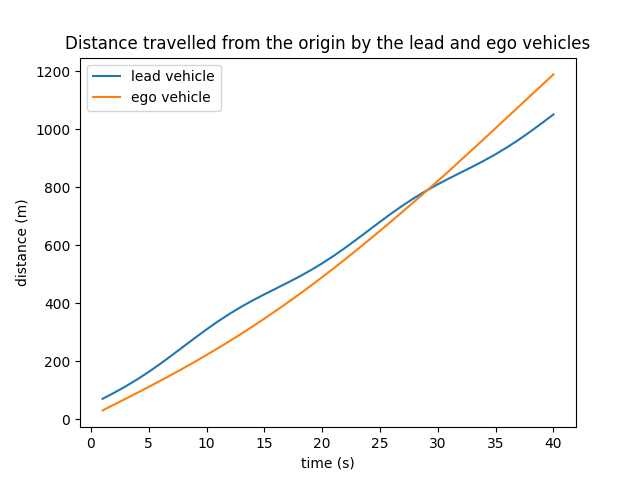
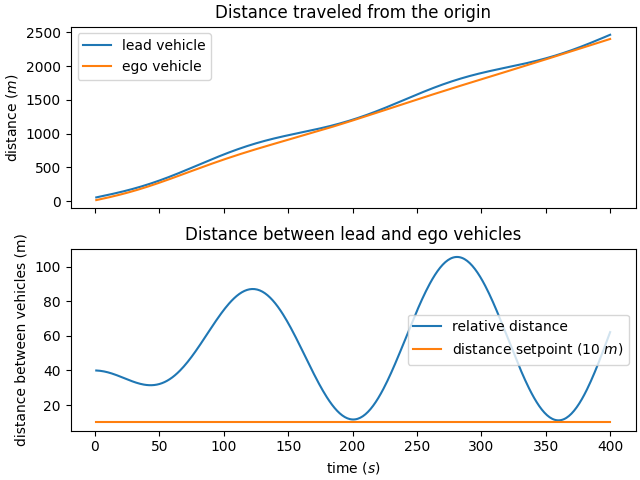
added subplots, tuned PID values, cleaned up code, and explained more in the README

diff --git a/tests/main.py b/tests/main.py
@@ -26,31 +26,23 @@ if __name__ == "__main__":
     dist2 = []
     dist = []
 
-
     for line in sys.stdin:
         # stdin: error, lead speed,e go speed, lead acceleration, ego acceleration, distance
 
         # split the input by ,
         stdin_arr = line.split(",")
-        # idx 0 is error
+
         error.append(float(stdin_arr[0]))
 
-        #idx 1 is error sum
         error_sum.append(float(stdin_arr[1]))
 
-        # idx 1 is lead speed
         lead_v.append(float(stdin_arr[2]))
 
-        #idx 2 is ego speed
         ego_v.append(float(stdin_arr[3]))
 
-        # idx 3 is lead acceleration
         lead_a.append(float(stdin_arr[4]))
 
-        # idx 4 is ego acceleration
         ego_a.append(float(stdin_arr[5]))
-
-        # idx 5 is distance between vehicles
 
         dist1.append(float(stdin_arr[6]))
 
@@ -59,64 +51,53 @@ if __name__ == "__main__":
         dist.append(float(stdin_arr[8].strip("\n")))
 
     # error
-    
-    plt.plot(T, error)
-    plt.xlabel("time (s)")
-    plt.ylabel("error")
-    plt.title("PID error over time")
+    fig, ax = plt.subplots(2, 1, sharex=True, constrained_layout=True)
+    ax[0].plot(T, error)
+    ax[0].set_title("PID error")
+    ax[0].set_ylabel("error")
+
+    ax[1].plot(T, error_sum)
+    ax[1].set_title("PID error accumulation")
+    ax[1].set_xlabel("time ($s$)")
+    ax[1].set_ylabel("error accumulation")
+
     plt.savefig("plots/error.png")
     plt.clf()
 
-    
-    # error sum
-    plt.plot(T, error_sum)
-    plt.xlabel("time (s)")
-    plt.ylabel("error accumulation")
-    plt.title("Total PID error over time")
-    plt.savefig("plots/total_error.png")
-    plt.clf()
+    # velocity and acceleration
+    fig, ax = plt.subplots(2, 1, sharex=True, constrained_layout=True)
+    ax[0].plot(T, lead_v)
+    ax[0].plot(T, ego_v)
+    ax[0].plot(T, SETPOINT) 
+    ax[0].set_ylabel("vehicle velocity ($m/s$)")
+    ax[0].set_title("Velocity responses")
+    ax[0].legend(["lead vehicle", "ego vehicle", "cruise setpoint (30 $m/s$)"])
 
+    ax[1].plot(T, lead_a)
+    ax[1].plot(T, ego_a)
+    ax[1].set_xlabel("time ($s$)")
+    ax[1].set_ylabel("vehicle acceleration ($m/s^2$)")
+    ax[1].set_title("Acceleration responses")
+    ax[1].legend(["lead vehicle", "ego vehicle"])
 
-    # velocity
-    plt.plot(T, lead_v)
-    plt.plot(T, ego_v)
-    plt.plot(T, SETPOINT) 
-    plt.xlabel("time (s)")
-    plt.ylabel("vehicle velocity (m/s)")
-    plt.title("Lead and ego vehicle velocity responses")
-    plt.legend(["lead vehicle", "ego vehicle", "cruise setpoint"])
-    plt.savefig("plots/velocity.png")
-    plt.clf()
-
-    
-    # acceleration
-    plt.plot(T, lead_a)
-    plt.plot(T, ego_a)
-    plt.xlabel("time (s)")
-    plt.ylabel("vehicle acceleration (m/s^2)")
-    plt.title("Lead and ego vehicle acceleration responses")
-    plt.legend(["lead vehicle", "ego vehicle"])
-    plt.savefig("plots/acceleration.png")
+    plt.savefig("plots/vel-acc-responses.png")
     plt.clf()
 
 
     # distance
-    plt.plot(T, dist1)
-    plt.plot(T, dist2)
-    plt.xlabel("time (s)")
-    plt.ylabel("distance (m)")
-    plt.title("Distance travelled from the origin by the lead and ego vehicles")
-    plt.legend(["lead vehicle", "ego vehicle"])
-    plt.savefig("plots/distance.png")
-    plt.clf()
+    fig, ax = plt.subplots(2, 1, sharex=True, constrained_layout=True)
+    ax[0].plot(T, dist1)
+    ax[0].plot(T, dist2)
+    ax[0].set_ylabel("distance ($m$)")
+    ax[0].set_title("Distance traveled from the origin")
+    ax[0].legend(["lead vehicle", "ego vehicle"])
 
-    # abs distance
     DISTANCE=[10]*DURATION
-    plt.plot(T, dist)
-    plt.plot(T, DISTANCE)
-    plt.xlabel("time (s)")
-    plt.ylabel("distance between vehicles (m)")
-    plt.title("Distance between lead and ego vehicles during the simulation")
-    plt.legend(["absolute distance","distance setpoint"])
-    plt.savefig("plots/absdistance.png")
+    ax[1].plot(T, dist)
+    ax[1].plot(T, DISTANCE)
+    ax[1].set_xlabel("time ($s$)")
+    ax[1].set_ylabel("distance between vehicles (m)")
+    ax[1].set_title("Distance between lead and ego vehicles")
+    ax[1].legend(["relative distance","distance setpoint (10 $m$)"])
+    plt.savefig("plots/distance.png")
 

diff --git a/src/acc.cc b/src/acc.cc
@@ -14,7 +14,6 @@ ACC::ACC(double set_velocity, double set_distance) {
 }
 
 void ACC::SetPID(double P, double I, double D) {
-    // set PID controller values
     controller.SetPID(P,I,D);
 }
 
@@ -22,23 +21,21 @@ double ACC::ApplyControl(double lead_distance, double ego_distance, double actua
     // computes control values and decides whether to apply gas or brakes
     this->actual_velocity=actual_velocity;
 
-    if(abs(lead_distance-ego_distance) >= set_distance) {
+    if(lead_distance-ego_distance >= set_distance) {
         // minimum distance is not violated
         setpoint = set_velocity;
 
-        // calculate control value
         control = controller.Compute(actual_velocity, setpoint); 
-
-//        std::cout << "!!not violated setpoint: " << setpoint << ", control: " << control << std::endl;
 
     } else {
         // minimum distance is violated
-        // apply brakes proportional to how much dist was violated
-//        control = - abs(set_distance - (lead_distance-ego_distance));
-
-        control = controller.Compute(lead_distance-ego_distance, set_distance);
-
-//        std::cout << "!!violated control: " << control << std::endl;
+        if(lead_distance-ego_distance <= 4){
+            // collided with the lead car
+            control = -controller.Compute(0, set_distance);
+        } else {
+            // no collision
+            control = -controller.Compute(lead_distance-ego_distance, set_distance);
+        }
     } 
     return control;
 }
@@ -50,6 +47,5 @@ double ACC::GetError() {
 
 double ACC::GetErrorSum() {
     error_sum+=controller.GetError();
-//    error_sum = controller.GetErrorSum();
     return error_sum;
 }

diff --git a/src/vehicle.cc b/src/vehicle.cc
@@ -5,7 +5,6 @@
 
 // construct and set vehicle name
 Vehicle::Vehicle(const std::string& name, const double& position0, const double& velocity0) : name(name), position(position0), velocity(velocity0) {
-//    std::cout << "[veh]: " << name << ", init vel: " << velocity << ", init pos: " << position << std::endl;
 } 
 
 // get vehicle position in global reference frame
@@ -25,31 +24,23 @@ void Vehicle::UpdateState(const double& control) {
     if(!CheckBounds(acceleration)) {
         if(acceleration>=0) {
             acceleration = maximum;
-//            std::cout << "bounds violated - max at " << acceleration << std::endl;
         } else {
             acceleration = minimum;
-//            std::cout << "bounds violated - min at " << acceleration << std::endl;
         }
     }
-
     // v = v + a * dt
-    velocity += acceleration * 1;
+    velocity += acceleration * 0.2;
 
     // p = p + v * dt
-    position += velocity * 1;
-
-//    std::cout << "[veh]: " << name << ", acc: " << acceleration << ", vel: " << velocity << ", pos: " << position << std::endl;
+    position += velocity * 0.2;
 }
 
 // manually sets acceleration
 void Vehicle::UpdateStateManual(double acceleration) {
     this->acceleration=acceleration;
 
-    velocity += acceleration * 1;
-    position += velocity * 1;
-
-//    std::cout << "[veh]: " << name << ", acc: " << acceleration << ", vel: " << velocity << ", pos: " << position << std::endl;
-
+    velocity += acceleration * 0.2;
+    position += velocity * 0.2;
 }
 
 // get vehicle velocity 

diff --git a/src/main.cc b/src/main.cc
@@ -27,7 +27,7 @@ int main(int argc, char* argv[]) {
     ACC acc(SETVELOCITY, SETDISTANCE);
 
     // set PID params through ACC
-    acc.SetPID(15,10,15);
+    acc.SetPID(80,10,10);
 
     // acceleration bounds
     ego.SetBounds(-3, 3);
@@ -39,6 +39,8 @@ int main(int argc, char* argv[]) {
          * ego: set acc through ACC, compute vel, compute dist
          */
 
+        double j = i/5.0;
+
         // update the lead vehicle acceleration through waveform
         lead.UpdateStateManual(AMPLITUDE*sin(M_PI*CYCLES*i/SIMDURATION));
 
@@ -47,8 +49,7 @@ int main(int argc, char* argv[]) {
         ego.UpdateState(acc.ApplyControl(lead.GetPosition(), ego.GetPosition(), ego.GetVelocity()));
 ;
 
-
-        std::cout << acc.GetError() << "," << acc.GetErrorSum() << "," << lead.GetVelocity() << "," << ego.GetVelocity() << "," << lead.GetAcceleration() << "," << ego.GetAcceleration() << "," << lead.GetPosition() << "," << ego.GetPosition() << "," << abs(lead.GetPosition() - ego.GetPosition()) << std::endl;
+        std::cout << acc.GetError() << "," << acc.GetErrorSum() << "," << lead.GetVelocity() << "," << ego.GetVelocity() << "," << lead.GetAcceleration() << "," << ego.GetAcceleration() << "," << lead.GetPosition() << "," << ego.GetPosition() << "," << lead.GetPosition() - ego.GetPosition() << std::endl;
 
     }
 }

diff --git a/README.md b/README.md
@@ -2,7 +2,20 @@
  
 Adaptive cruise control (ACC) is a control system that modifies the speed of the ego vehicle in response to conditions on the road. The ACC operates in two modes: speed control and spacing control. The control goal varies depending on which mode is set. The inter-vehicle distance is maintained with a constant value. The goal of the system is to maintain the desired distance without causing a collision, keeping the maximum acceleration and minimum deceleration within specified limits (to guarantee safety etc).
 
-I have a more thorough explanation of the model, controller, and the code as a whole on my blog post here. This README explains the file structure and how to run it.
+I have a more thorough explanation of the model, controller, and the code as a whole on my blog post here. But here are the results with P=80, I=10, D=10.
+
+
+<p align="center"><img src="https://raw.githubusercontent.com/onlycase/adaptive-cruise-control/master/plots/vel-acc-responses.png"/></p>
+
+The lead vehicle acceleration is driven by a sinusoid, which in turn drives the velocity. The ego vehicle oscillates somewhat but converges on the cruise setpoint although it is quite slow.
+
+<p align="center"><img src="https://raw.githubusercontent.com/onlycase/adaptive-cruise-control/master/plots/distance.png"/></p>
+
+Observing the distance traveled from the origin, the area between the curves at any instantaneous point signifies their distance. At the points where the curves seem to touch, the distance was nearly violated and the adaptive cruise controller responded. The second plot oscillates as the lead vehicle tends to do so.
+
+<p align="center"><img src="https://raw.githubusercontent.com/onlycase/adaptive-cruise-control/master/plots/error.png"/></p>
+
+The error values drive the PID output. Ideally the error converges to zero and the error accumulation should reduce in growth over time, as observed.
 
 
 ## file structure
@@ -47,7 +60,7 @@ matplotlib
 The simulation duration must be set as an environment variable as its used within the C++ source code and the python plotting scripts. To export a duration of 30s,
 
 ```
-export DUR=30
+export DUR=400
 ```
 
 to build
@@ -65,8 +78,6 @@ to both
 Tested on macOS 10.15
 
 ## to do
-* better plotting (with subplots)
-* tune PID values better
 * checks if environment variable is not present
 * checks if other values arent set
 
